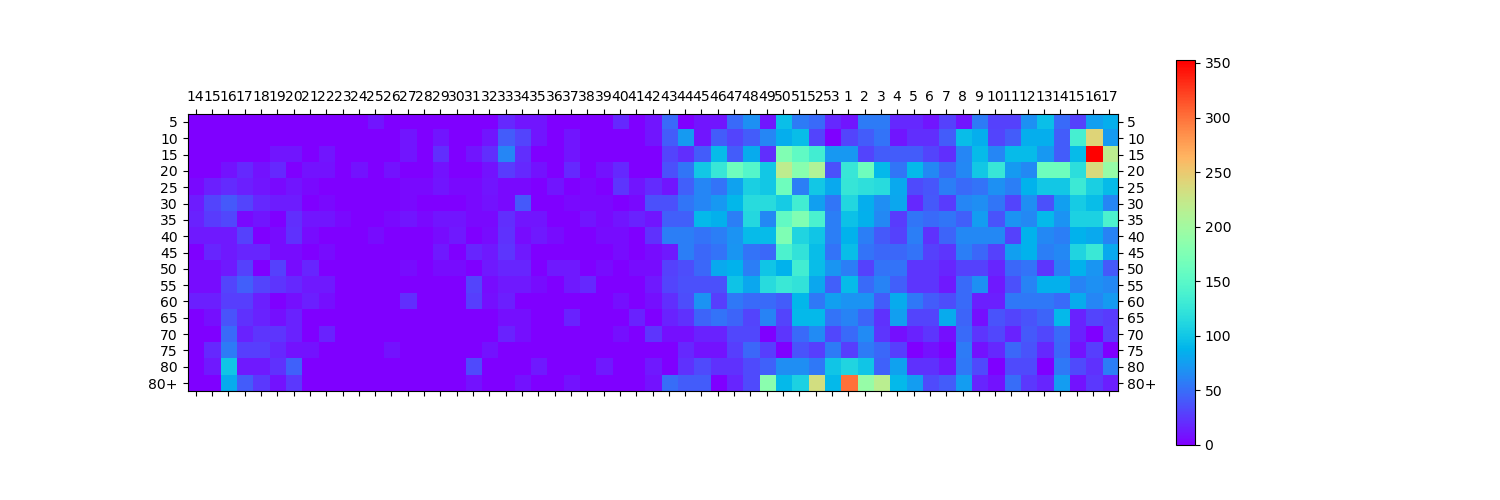
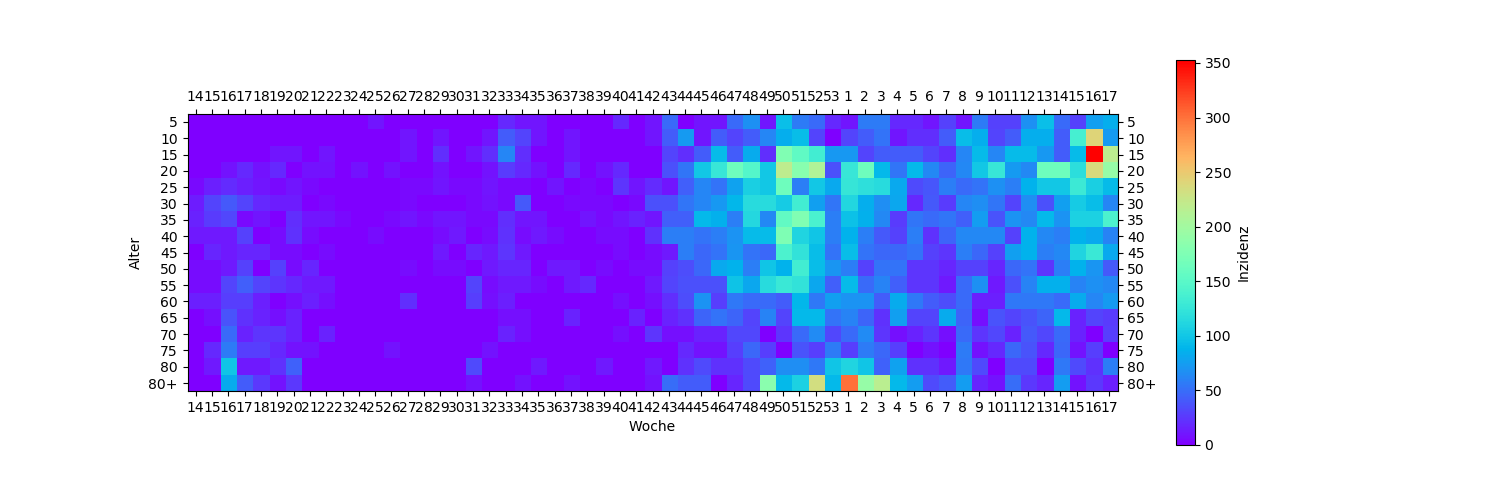
add: Achsenbeschriftung

Changed region(s): [[0.1227, 0.78, 0.736, 0.87], [0.0613, 0.51, 0.092, 0.54]]

diff --git a/plotter.py b/plotter.py
@@ -12,7 +12,8 @@ def plot(data):
     fig = plt.figure(figsize=(15, 5))
     ax = fig.add_subplot()
     im = ax.matshow(data, cmap='rainbow')
-    fig.colorbar(im)
+    bar = fig.colorbar(im)
+    bar.set_label('Inzidenz')
 
     age_labels = [str(5+5*x) for x in range(ages)]
     age_labels[-1] = "80+"
@@ -20,11 +21,13 @@ def plot(data):
                    labelright=True, labelleft=True)
     ax.set_yticks(np.arange(ages))
     ax.set_yticklabels(age_labels)
+    ax.set_ylabel('Alter')
 
     _, week, _ = datetime.date.today().isocalendar()
     week_labels = [str(1+(53+x-weeks+week) % 53) for x in range(weeks)]
-    ax.tick_params(axis="x", top=True, labeltop=True)
+    ax.tick_params(axis="x", top=True, labeltop=True, labelbottom=True)
     ax.set_xticks(np.arange(weeks))
+    ax.set_xlabel('Woche')
     ax.set_xticklabels(week_labels)
 
     plt.savefig("plot.png")
